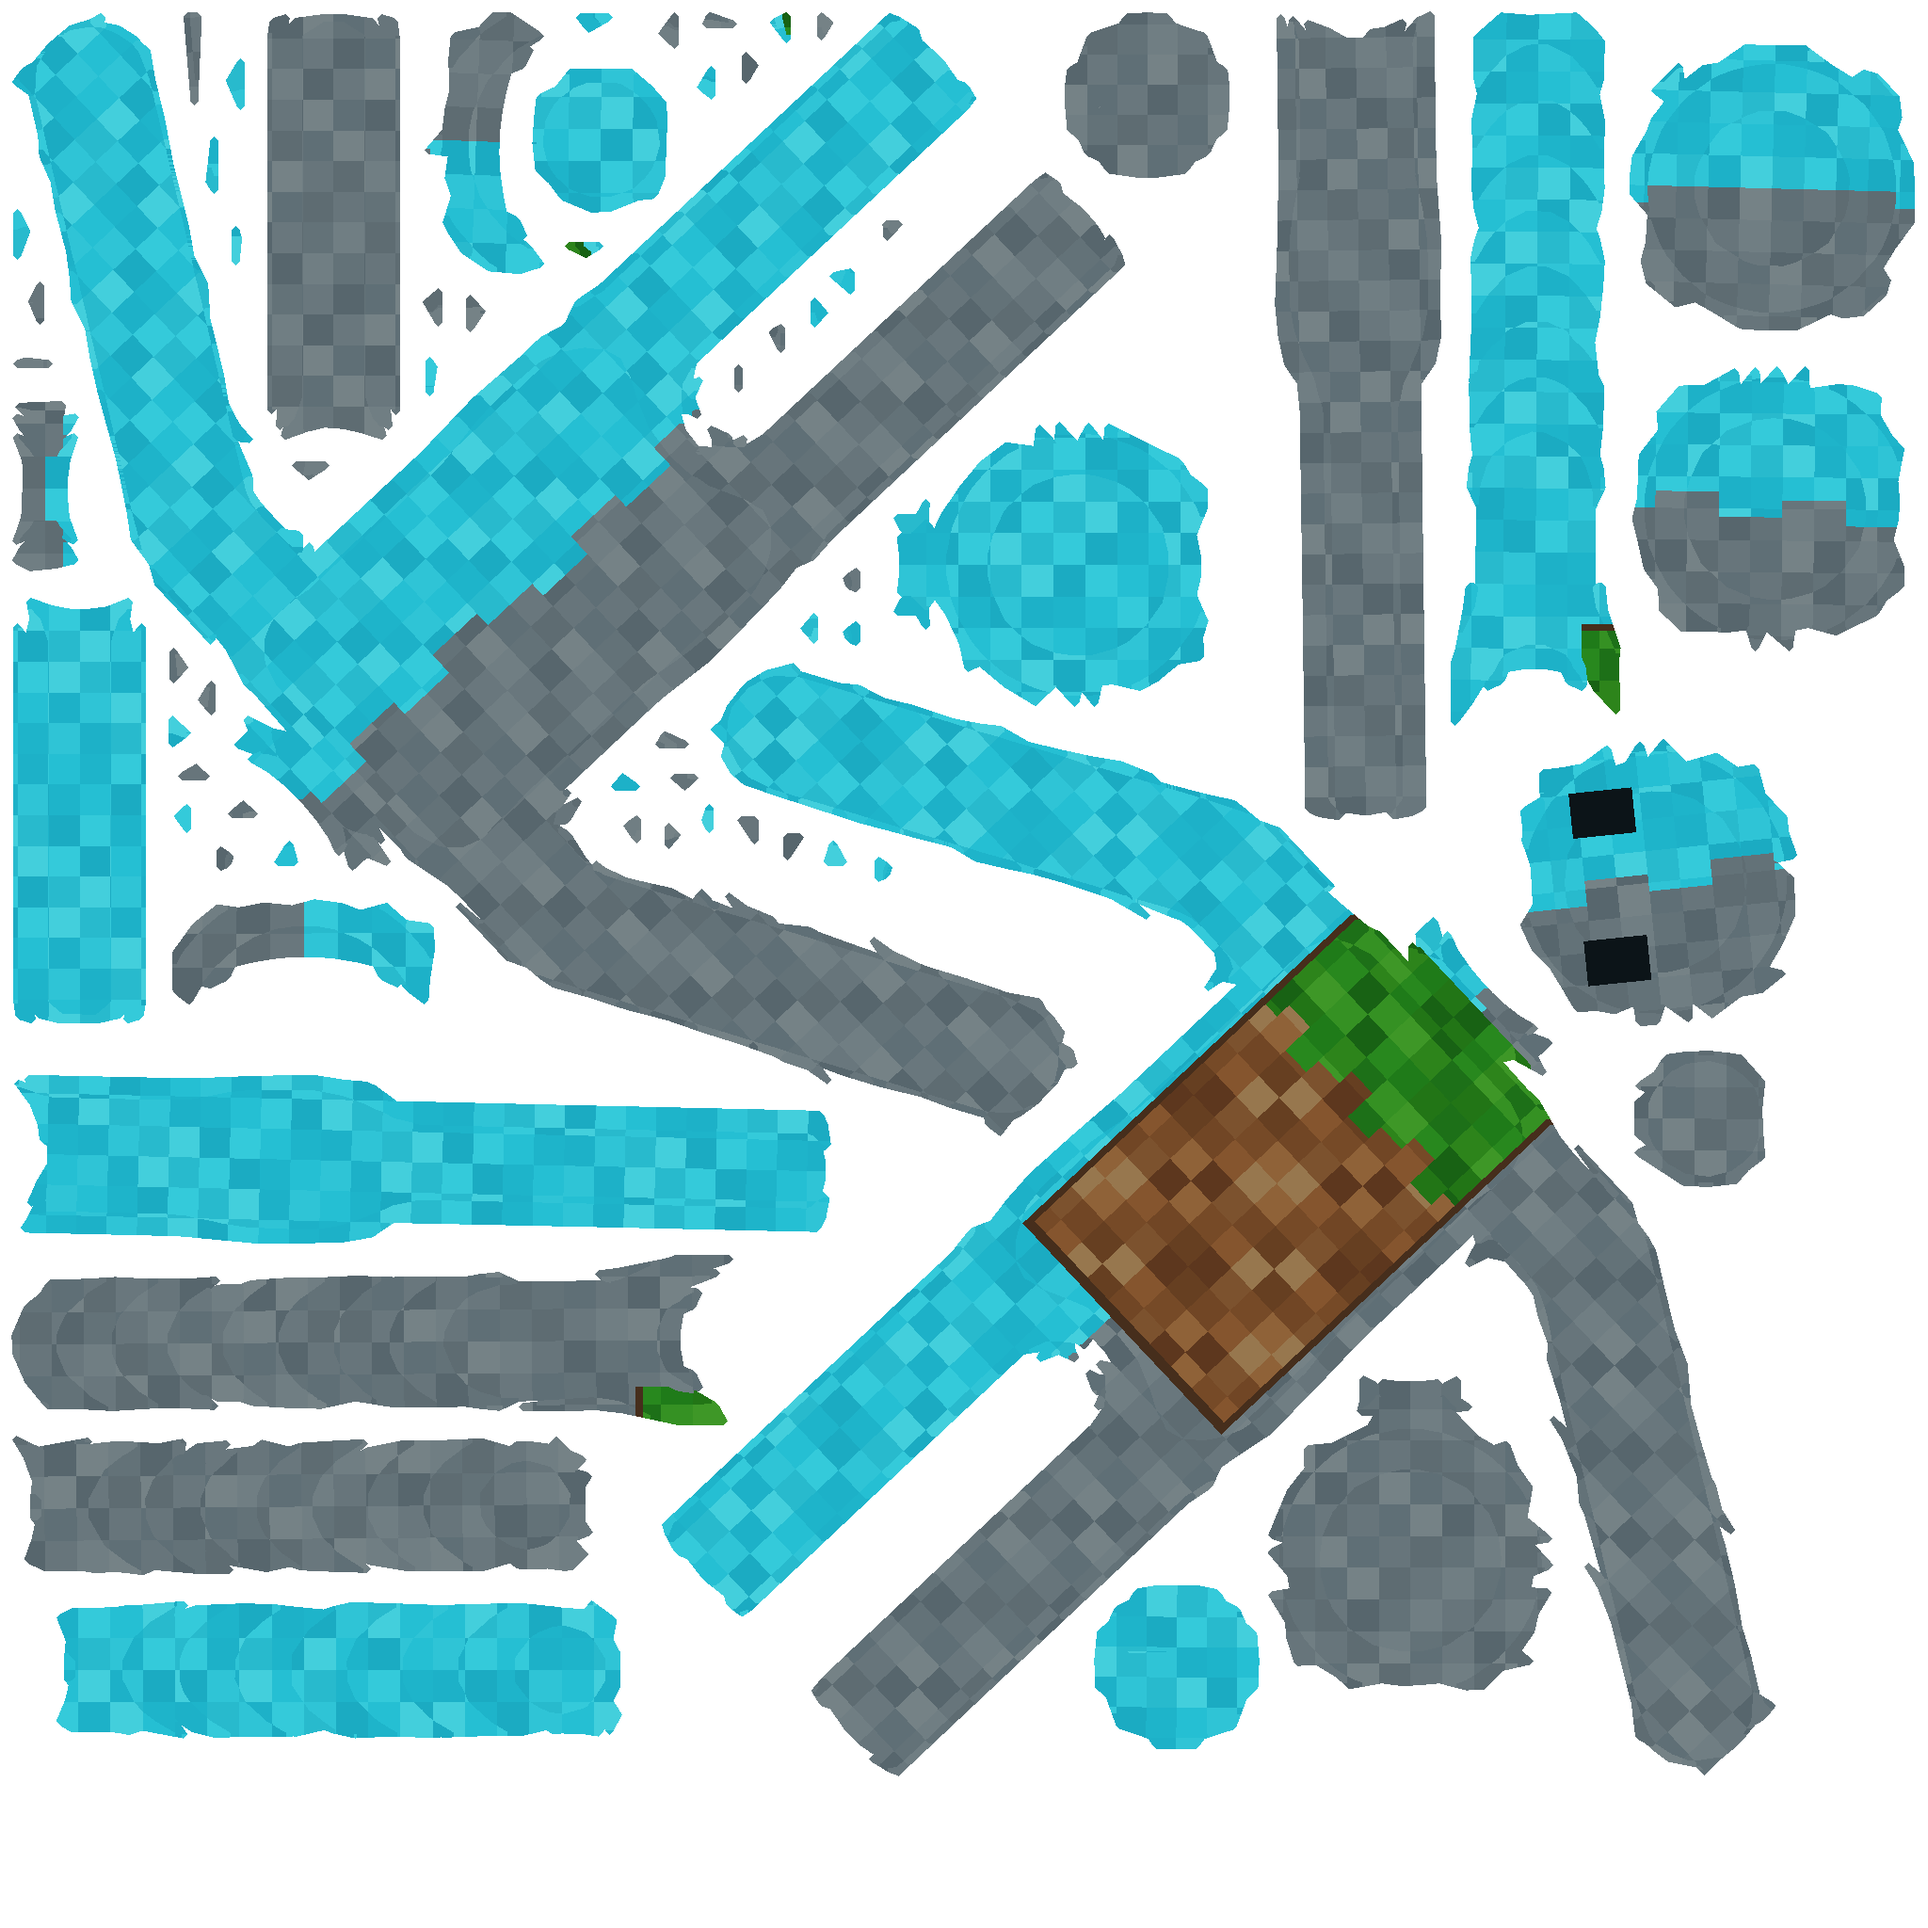
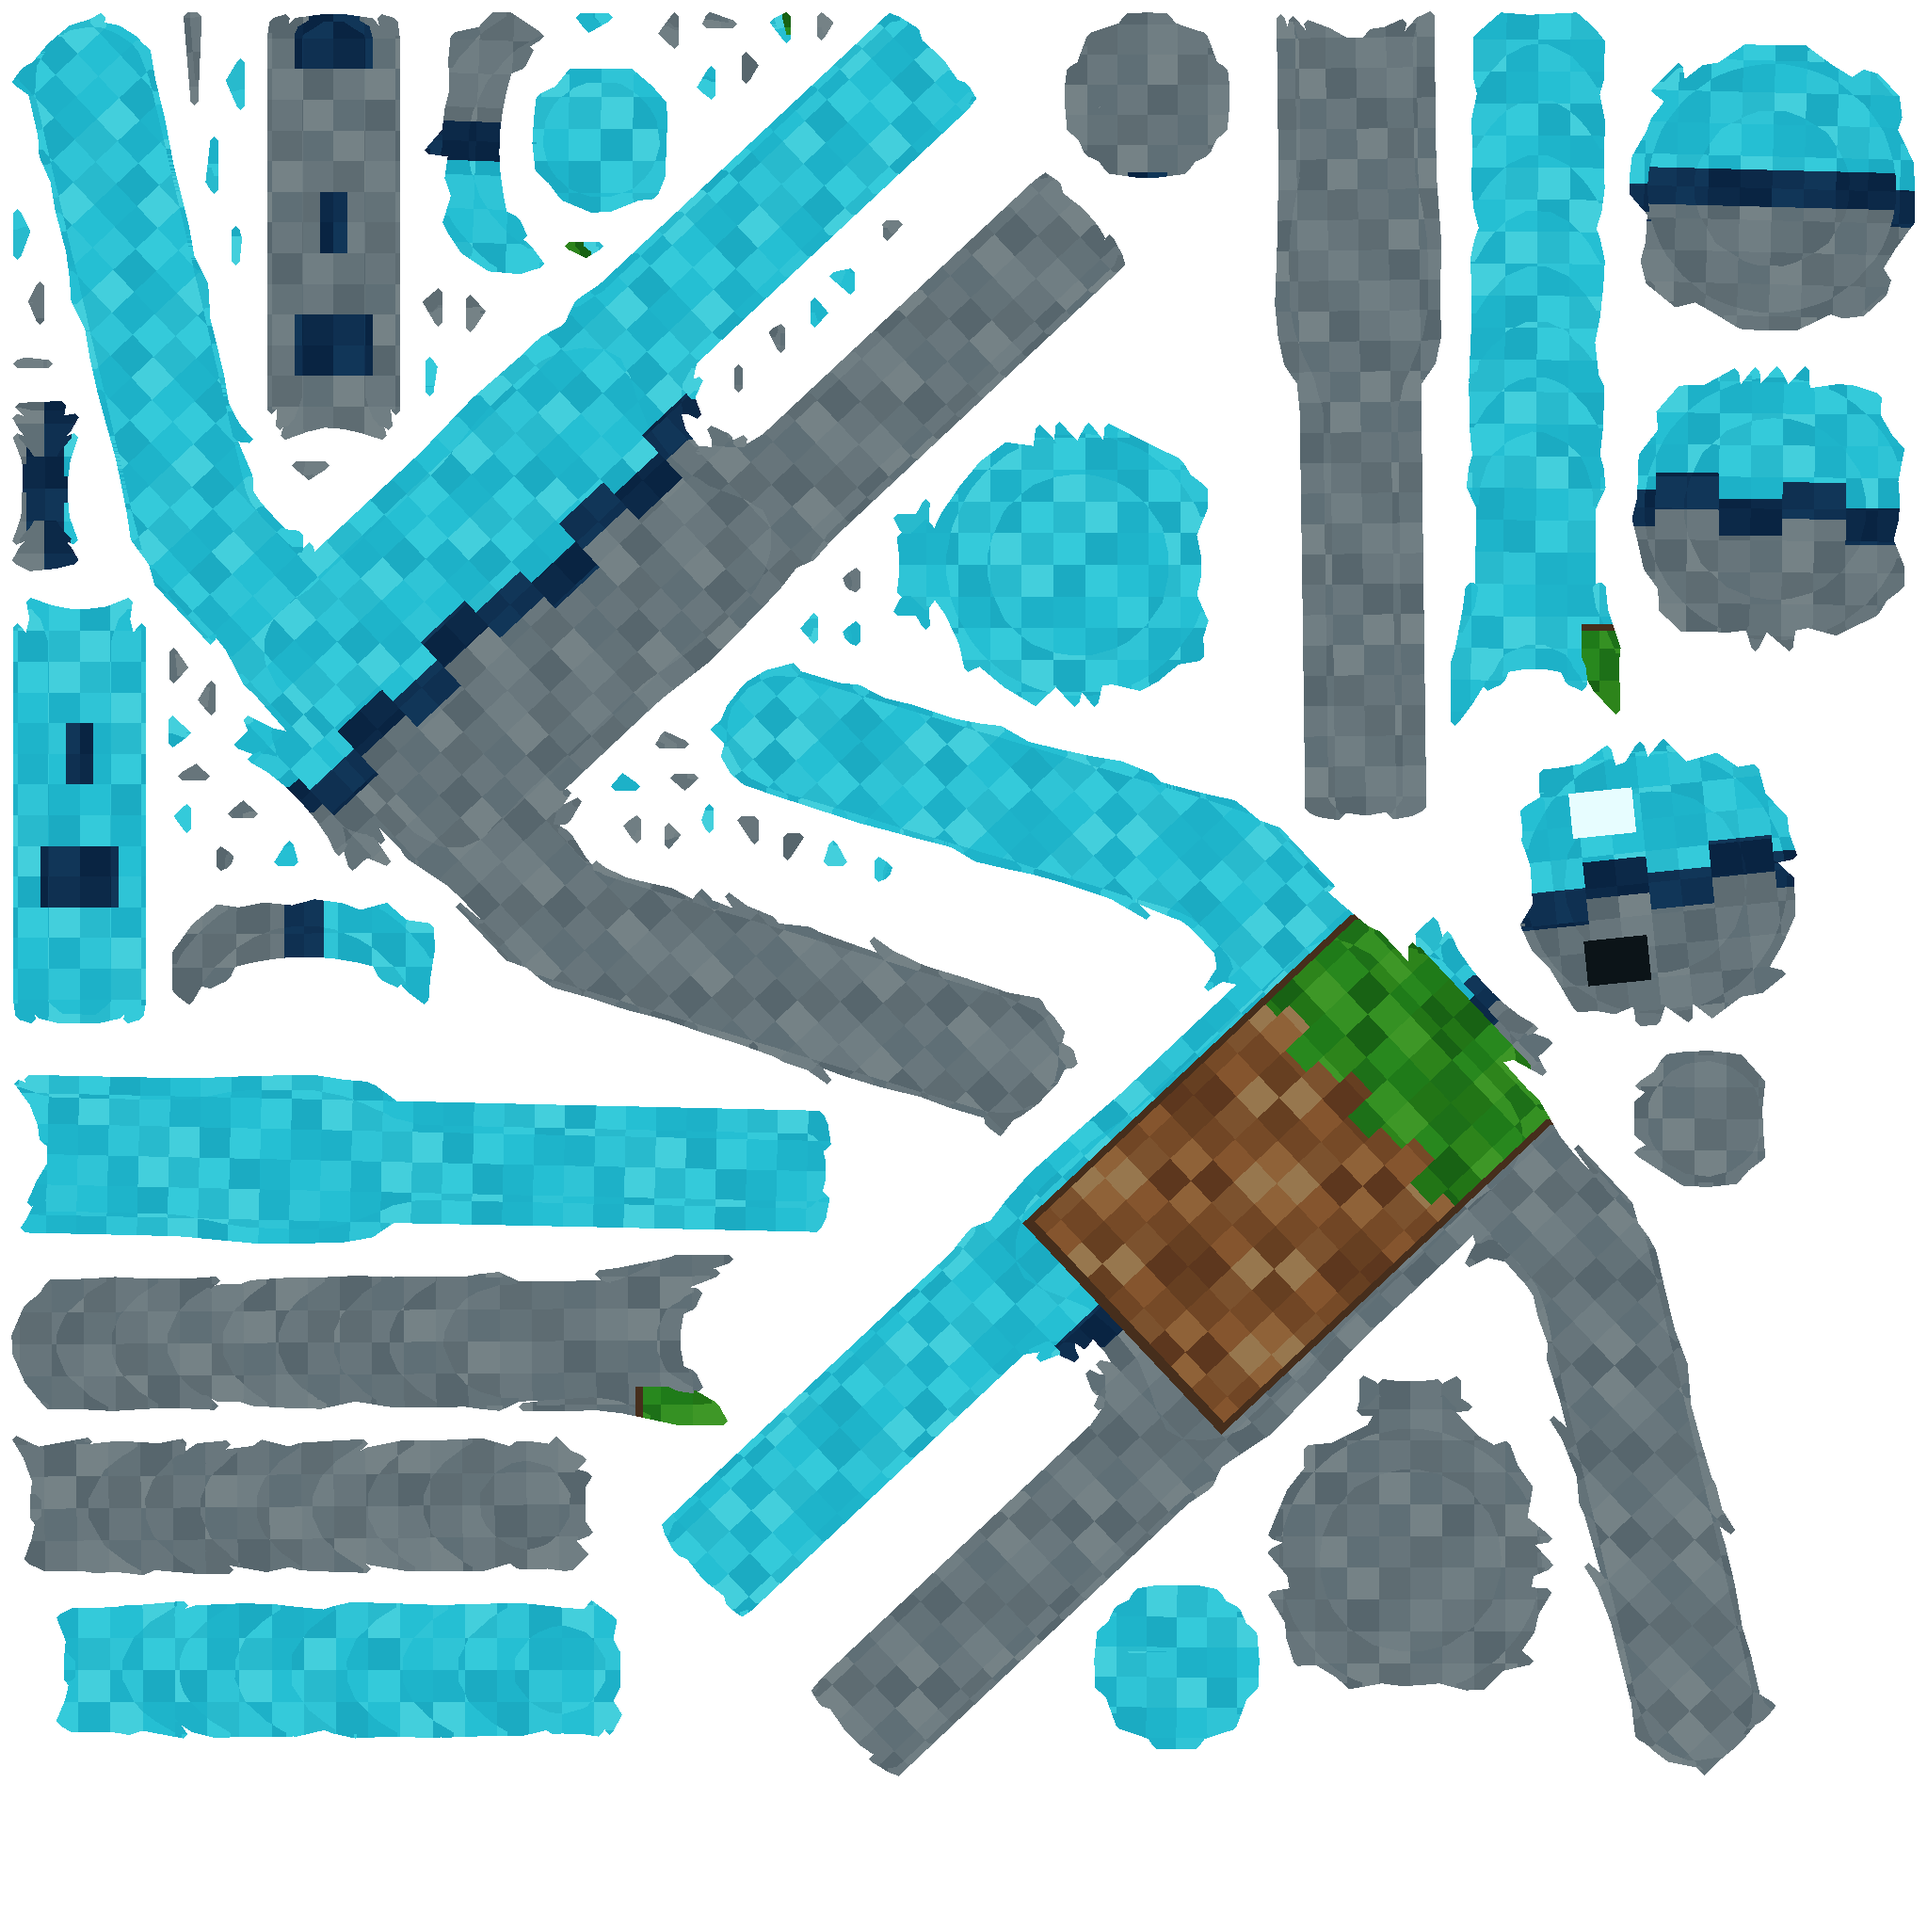
fix(skins): add navy center stripe and pale cyan eye

diff --git a/tests/skinsecret.test.js b/tests/skinsecret.test.js
@@ -31,7 +31,7 @@ test('the bundled skin is a UV-versioned 2048² stone/cyan PNG with eyes and a g
   assert.equal(uv,SKIN_UV,'Baked paint must match the runtime UV layout');
   const rows=inflateSync(Buffer.concat(compressed)), stride=SKIN_SIZE*4+1;
   assert.equal(rows.length,stride*SKIN_SIZE);
-  let cyan=0,stone=0,grass=0,dirt=0,eyes=0,transparent=0;
+  let cyan=0,stone=0,grass=0,dirt=0,darkEye=0,iceEye=0,navy=0,transparent=0;
   for(let y=0;y<SKIN_SIZE;y++) {
     assert.equal(rows[y*stride],0,'The procedural authoring script writes unfiltered RGBA rows');
     for(let x=0;x<SKIN_SIZE;x++) {
@@ -42,10 +42,15 @@ test('the bundled skin is a UV-versioned 2048² stone/cyan PNG with eyes and a g
       if(r>70&&r<140&&g>=r&&b>=g&&b-r<45)stone++;
       if(g>70&&g>r*1.6&&g>b*1.6)grass++;
       if(r>60&&r>g*1.2&&g>b*1.2)dirt++;
-      if(r<25&&g<25&&b<25)eyes++;
+      if(r<25&&g<25&&b<25)darkEye++;
+      if(r>=225&&g>=250&&b===255)iceEye++;
+      if(r<25&&g>=30&&g<65&&b>=60&&b<100)navy++;
     }
   }
   assert.ok(cyan>10000&&stone>10000,'Both halves must be present');
   assert.ok(grass>1000&&dirt>1000,'Grass and dirt cape motif');
-  assert.ok(eyes>25,'Dark pixel eyes');assert.ok(transparent>10000,'Unused atlas space stays transparent');
+  assert.ok(darkEye>25,'The stone-side eye stays dark');
+  assert.ok(iceEye>25,'The cyan-side eye is very pale ice blue');
+  assert.ok(navy>1000,'A dark-blue stripe separates the two halves');
+  assert.ok(transparent>10000,'Unused atlas space stays transparent');
 });

diff --git a/blender/skin_ninjajavamc.py b/blender/skin_ninjajavamc.py
@@ -32,10 +32,16 @@ def paint(points):
     blue = x >= boundary
     colors = stone[noise % len(stone)]
     colors[blue] = cyan[noise[blue] % len(cyan)]
+    # A dark-blue, pixel-stepped stripe separates the stone and cyan halves.
+    navy = np.array([[12, 41, 72], [15, 48, 81], [17, 54, 88], [9, 36, 66]], np.uint8)
+    middle = np.abs(x - boundary) < .026
+    colors[middle] = navy[noise[middle] % len(navy)]
 
-    # Two small, blocky eyes on the front (-Y in Blender), not wrapped onto the back.
+    # The stone-side eye is dark; the cyan-side eye is extremely pale ice blue.
+    # Both are on the front (-Y in Blender), never wrapped onto the back.
     eyes = (np.abs(np.abs(x) - .105) < .032) & (z > 1.72) & (z < 1.81) & (y < -.16)
-    colors[eyes] = [12, 20, 24]
+    colors[eyes & ~blue] = [12, 20, 24]
+    colors[eyes & blue] = [231, 253, 255]
 
     # Paint the grass-block cape motif onto the torso's back. It cannot snag, clip
     # through weapons, or require a second skeleton because it is part of the texture.

diff --git a/docs/skins.md b/docs/skins.md
@@ -35,8 +35,9 @@ The complete code triggers automatically; Enter can retry it. Unsaved paint
 still asks for confirmation before replacement. Save it as **Ninjajavamc** or another regular
 name to keep it in the library and apply it to the hero. The secret code itself is reserved.
 
-The gray-stone/cyan split, pixel eyes and grass/dirt back motif are adapted from the user's
-video onto the existing rounded character. The cape is painted, not a separate 3D attachment.
+The gray-stone/cyan split, dark-blue middle stripe, dark stone-side eye, very pale ice-blue
+cyan-side eye and grass/dirt back motif are adapted from the user's video and feedback onto
+the existing rounded character. The cape is painted, not a separate 3D attachment.
 Only the authored texture is bundled; the private recording is not included or needed at runtime.
 
 Regenerate `assets/skins/ninjajavamc.png` without modifying the rig or UVs:
